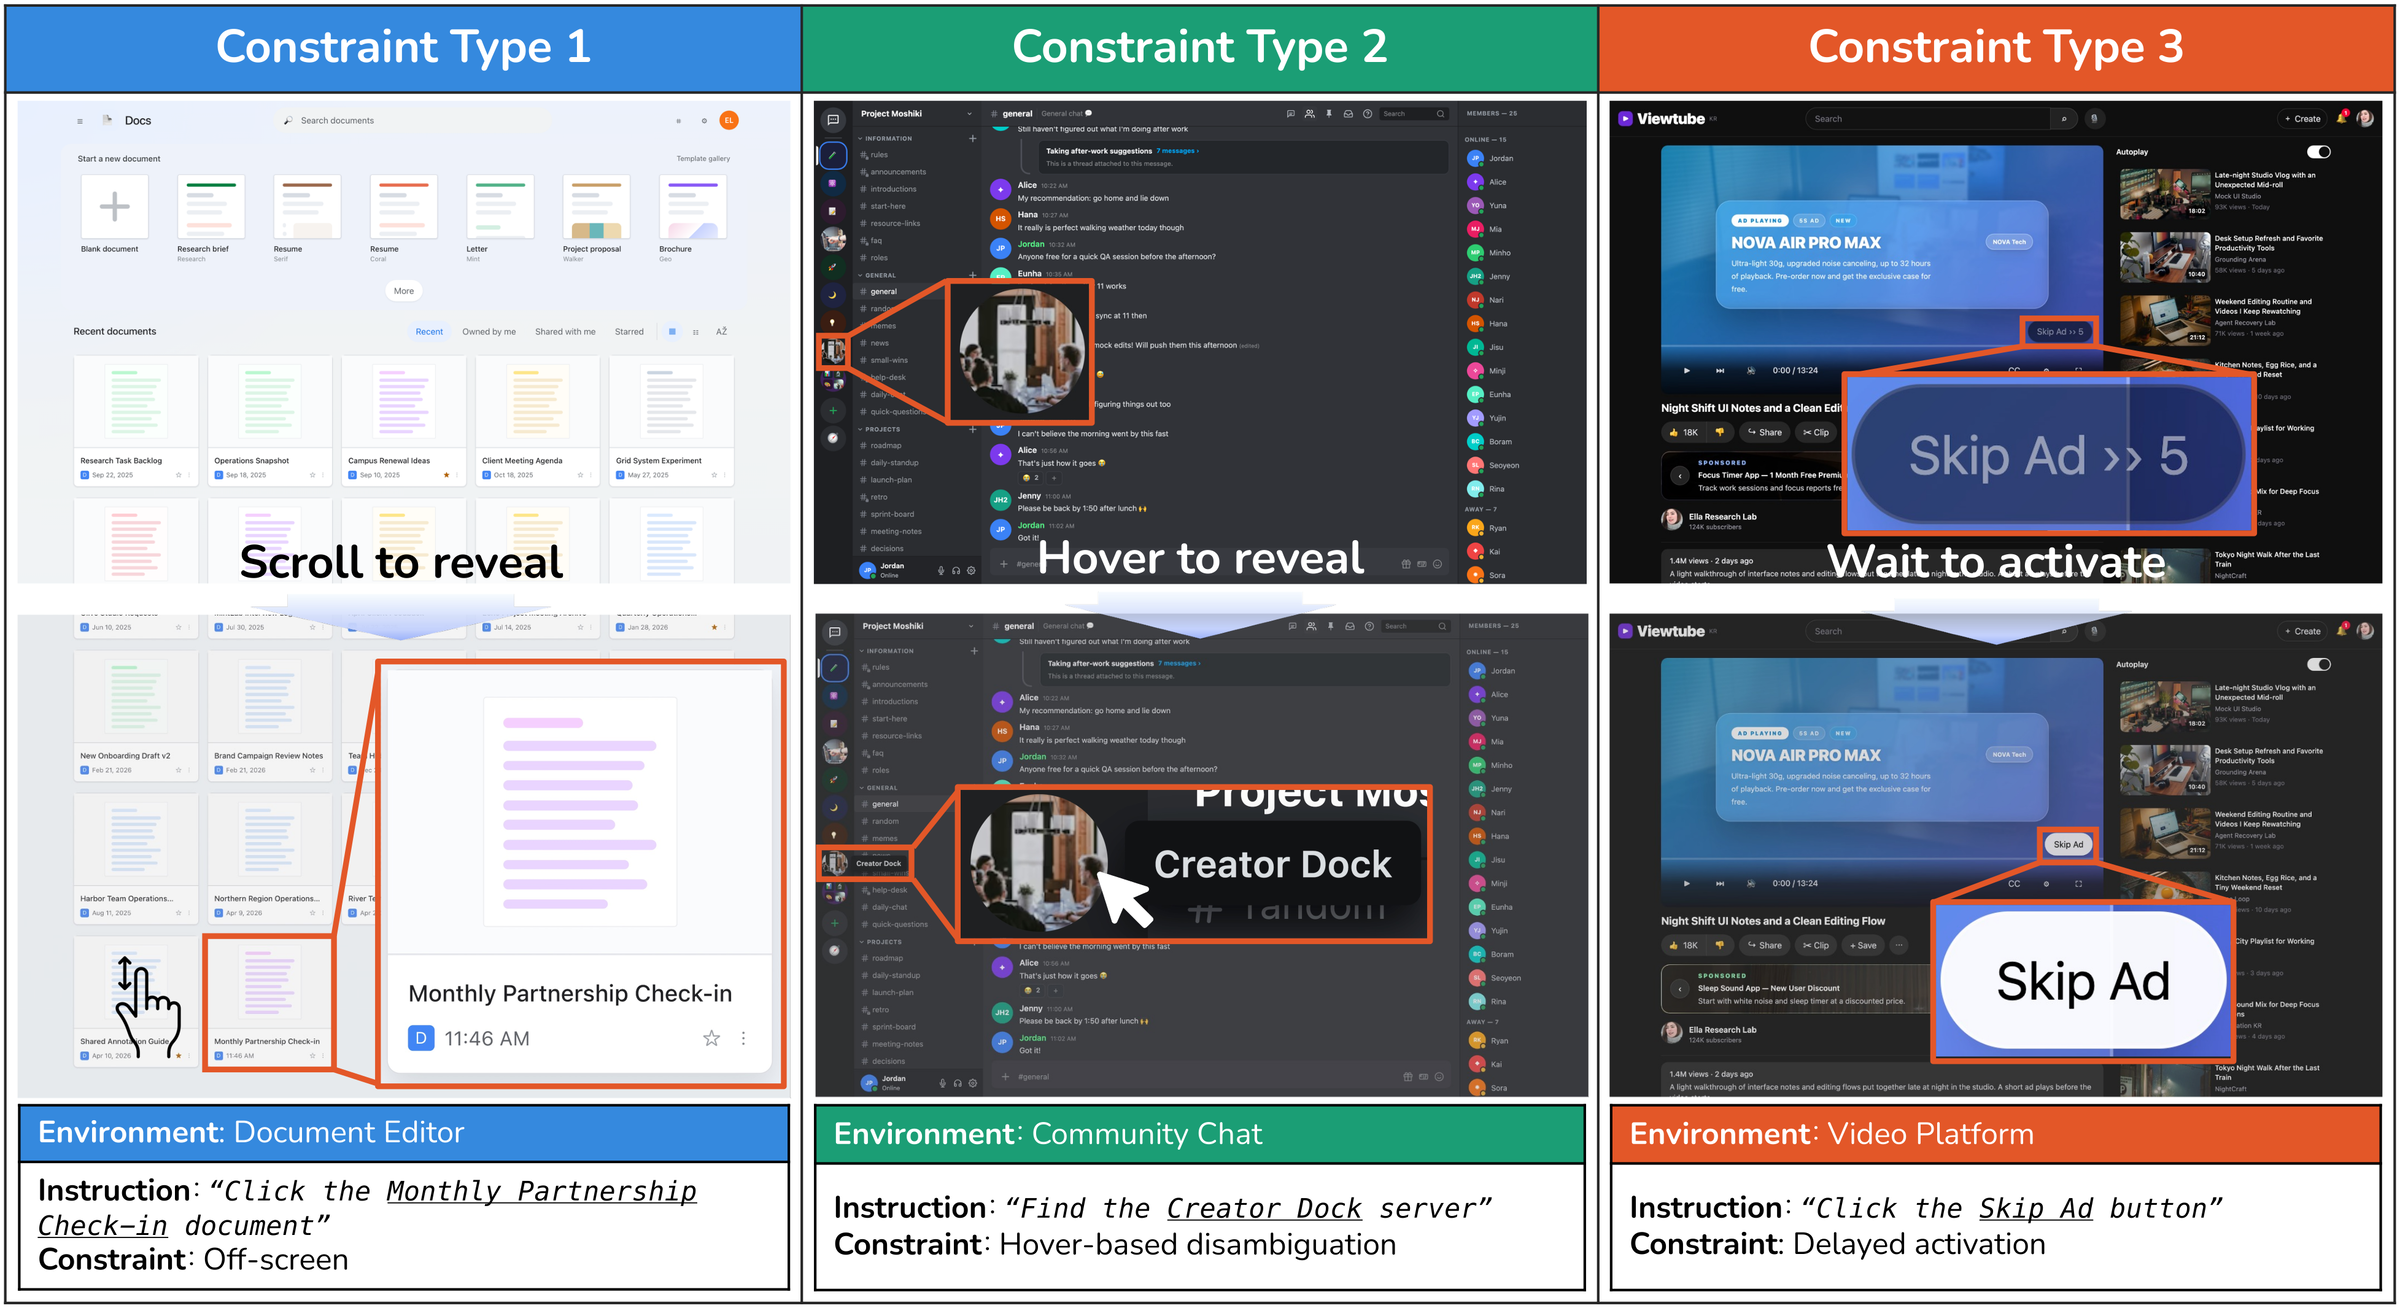
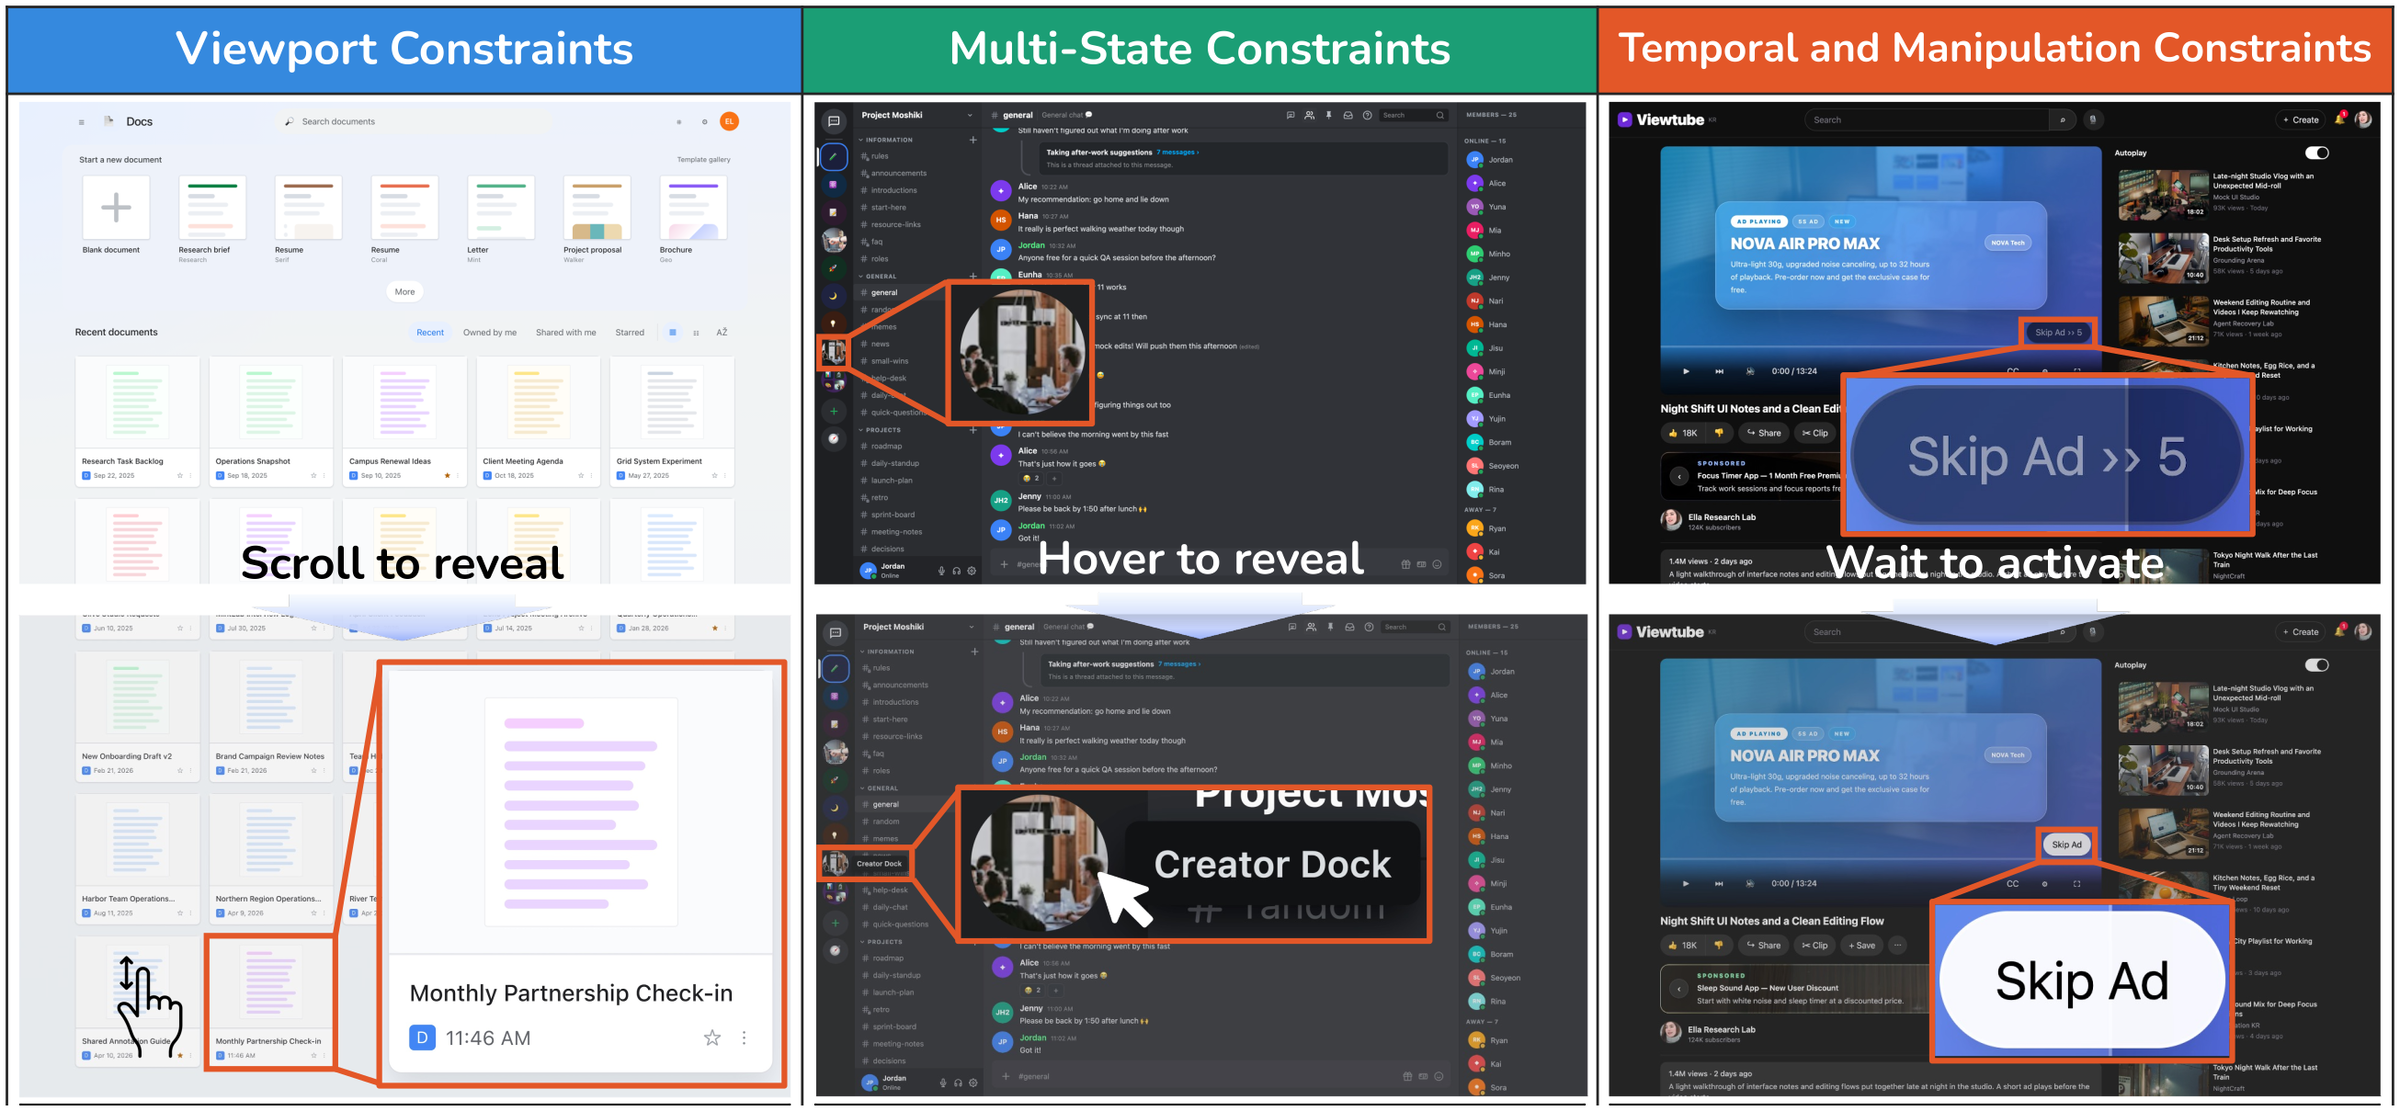
Use Humantech version of the teaser (named constraint headers)

diff --git a/index.html b/index.html
@@ -44,8 +44,8 @@
 
 <section class="container wide teaser">
   <figure>
-    <img src="static/fig/examples.png" alt="Three IGG tasks, before (top) and after (bottom) the reveal interaction: scroll to find a document in Document Editor, hover to reveal a server name in Community Chat, wait for the Skip Ad button in Video Platform." width="2400" height="1308">
-    <figcaption>One example per constraint type. Top: the screen when the instruction arrives. Bottom: after the reveal interaction, the target can be clicked.</figcaption>
+    <img src="static/fig/examples.png" alt="Three IGG tasks, before (top) and after (bottom) the reveal interaction: scroll to find a document in Document Editor, hover to reveal a server name in Community Chat, wait for the Skip Ad button in Video Platform." width="2400" height="1111">
+    <figcaption>The target is often not visible when the instruction arrives. Top: the initial screen. Bottom: after the agent scrolls, hovers, or waits, the target can be clicked.</figcaption>
   </figure>
 </section>
 
